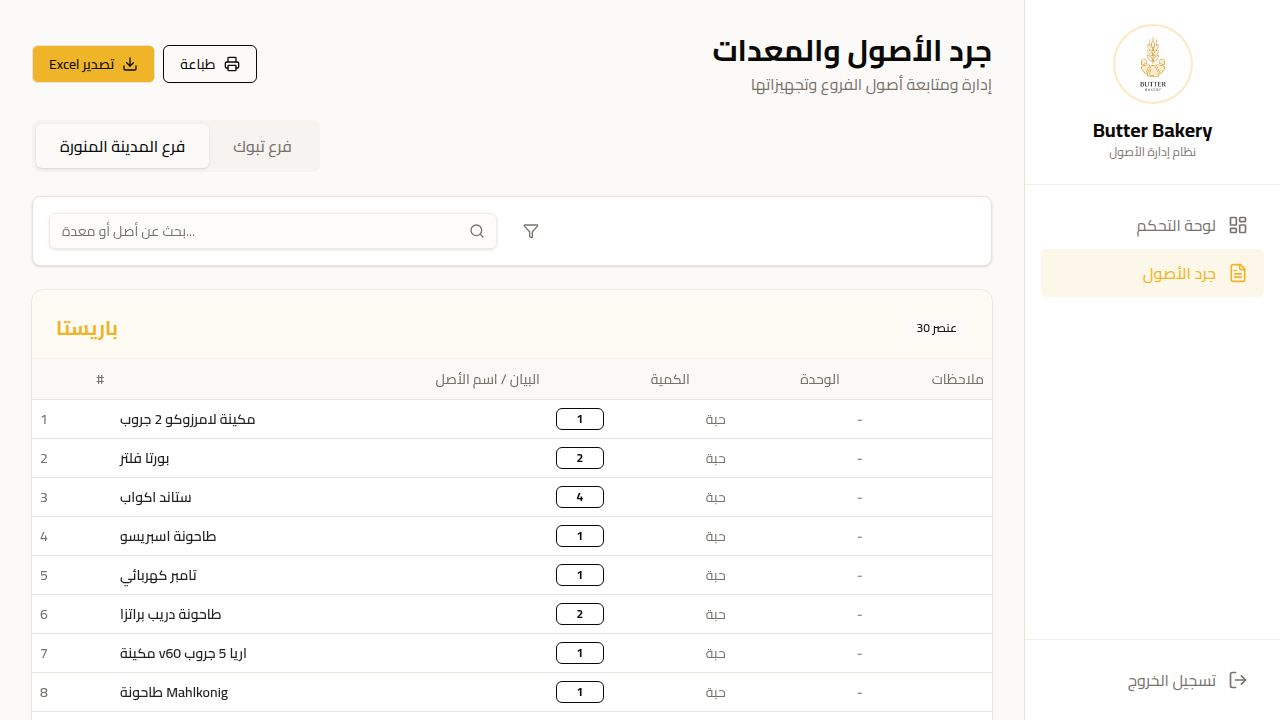
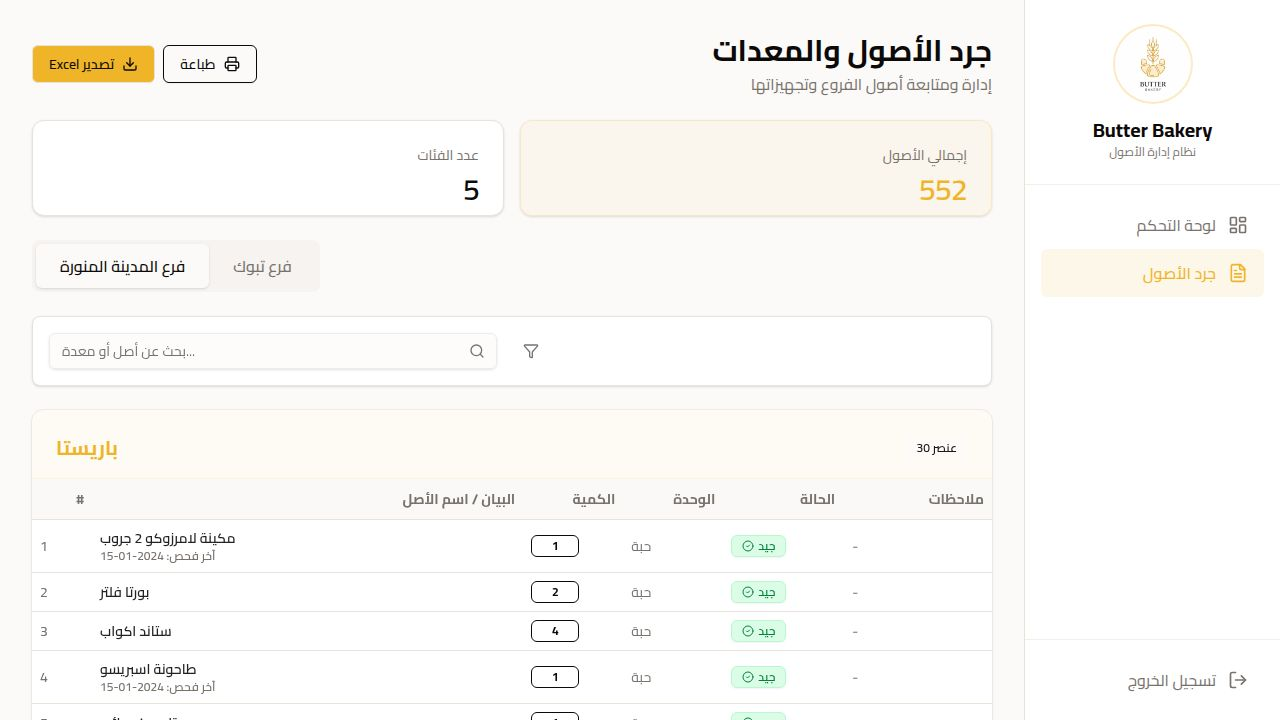
Update asset summary to only show total assets and categories
Remove the "maintenance needed" status from the summary dashboard and revert the "Ice maker Migel" status to "good".

Replit-Commit-Author: Agent
Replit-Commit-Session-Id: e5fd94e0-1e8e-4852-8f43-6661ae21aa6f
Replit-Commit-Checkpoint-Type: full_checkpoint
Replit-Commit-Event-Id: daf67f07-da0e-4bea-abd9-eb214a000219
Replit-Commit-Screenshot-Url: https://storage.googleapis.com/screenshot-production-us-central1/ccfdd11e-6206-49ce-b112-34cf69af608e/e5fd94e0-1e8e-4852-8f43-6661ae21aa6f/8L7zTZB
Replit-Helium-Checkpoint-Created: true

diff --git a/client/src/lib/data.ts b/client/src/lib/data.ts
@@ -48,7 +48,7 @@ export const INVENTORY_DATA: BranchData[] = [
       { id: "b-16", name: "بتشر مقاس 450", quantity: 3, unit: "حبة", category: "باريستا", status: "good" },
       { id: "b-17", name: "بتشر مقاس 300", quantity: 2, unit: "حبة", category: "باريستا", status: "good" },
       { id: "b-18", name: "بتشر مقاس 600", quantity: 2, unit: "حبة", category: "باريستا", status: "good" },
-      { id: "b-19", name: "صانعة ثلج ميجل", quantity: 1, unit: "حبة", category: "باريستا", status: "maintenance", notes: "تحتاج صيانة دورية", lastCheck: "2024-01-10" },
+      { id: "b-19", name: "صانعة ثلج ميجل", quantity: 1, unit: "حبة", category: "باريستا", status: "good", lastCheck: "2024-01-10" },
       { id: "b-20", name: "ميزان شحن", quantity: 4, unit: "حبة", category: "باريستا", status: "good" },
       { id: "b-21", name: "سيرفر مع القمع", quantity: 5, unit: "حبة", category: "باريستا", status: "good" },
       { id: "b-22", name: "كاتل كهربائي 1 لتر", quantity: 1, unit: "حبة", category: "باريستا", status: "good" },

diff --git a/client/src/pages/inventory.tsx b/client/src/pages/inventory.tsx
@@ -195,7 +195,7 @@ export default function InventoryPage() {
         </div>
 
         {/* Summary Cards */}
-        <div className="grid grid-cols-1 md:grid-cols-3 gap-4 print:hidden">
+        <div className="grid grid-cols-1 md:grid-cols-2 gap-4 print:hidden">
           <Card className="bg-primary/5 border-primary/20">
             <CardHeader className="pb-2">
               <CardDescription>إجمالي الأصول</CardDescription>
@@ -206,12 +206,6 @@ export default function InventoryPage() {
             <CardHeader className="pb-2">
               <CardDescription>عدد الفئات</CardDescription>
               <CardTitle className="text-3xl">{totalCategories}</CardTitle>
-            </CardHeader>
-          </Card>
-          <Card className={cn("bg-card", maintenanceItems > 0 && "bg-orange-50 border-orange-200")}>
-            <CardHeader className="pb-2">
-              <CardDescription>تحتاج صيانة</CardDescription>
-              <CardTitle className={cn("text-3xl", maintenanceItems > 0 && "text-orange-600")}>{maintenanceItems}</CardTitle>
             </CardHeader>
           </Card>
         </div>
